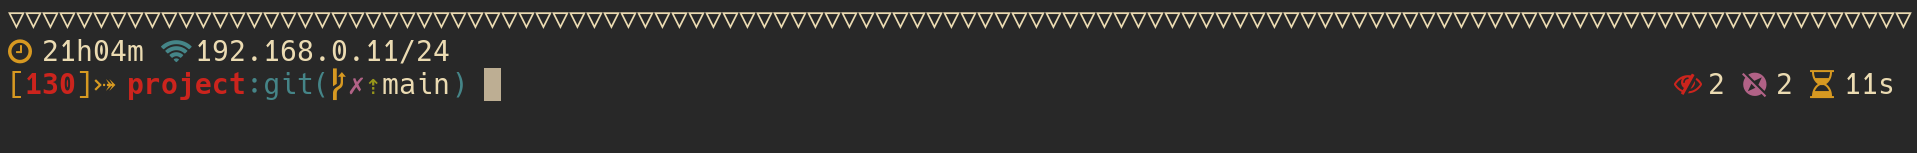
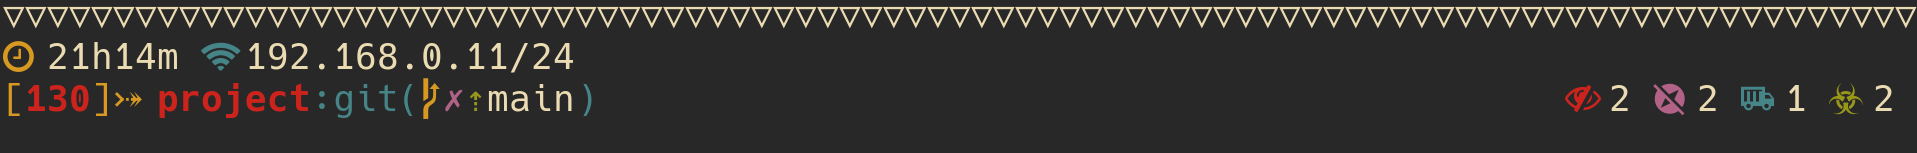
feat: add jobs module.

Changed region(s): [[0.0, 0.0261, 1.0, 0.183], [0.0, 0.2614, 0.3078, 0.7582], [0.8002, 0.4444, 1.0, 0.7582]]

diff --git a/README.md b/README.md
@@ -15,7 +15,8 @@ current environment:
   + quantity of active docker containers.
   + quantity of files being untracked by git.
   + quantity of hidden files.
-  + time taken by the last command.
+  + quantity of jobs running in the background.
+  + time elapsed in the last command.
 
 
 ## Screenshots
